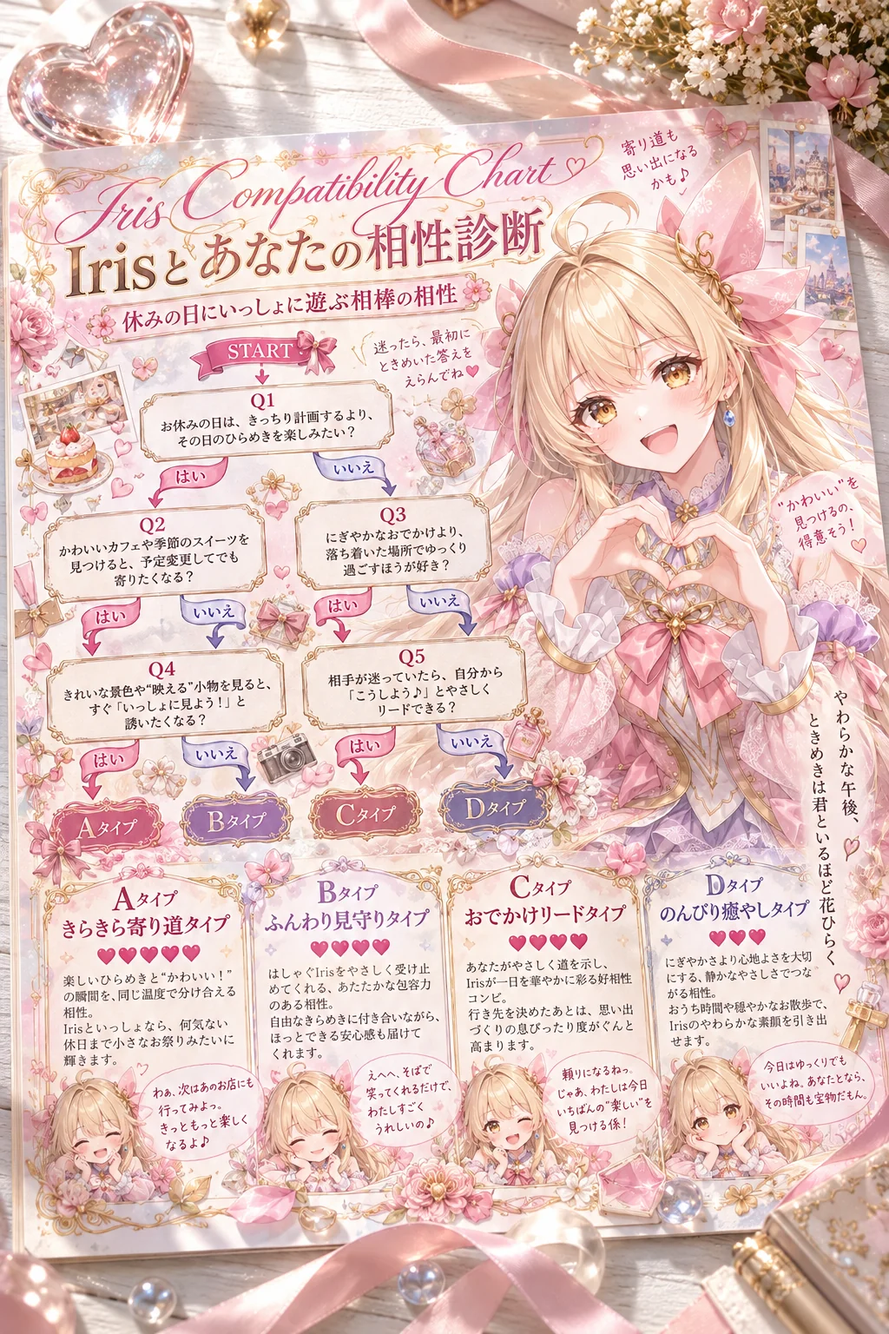
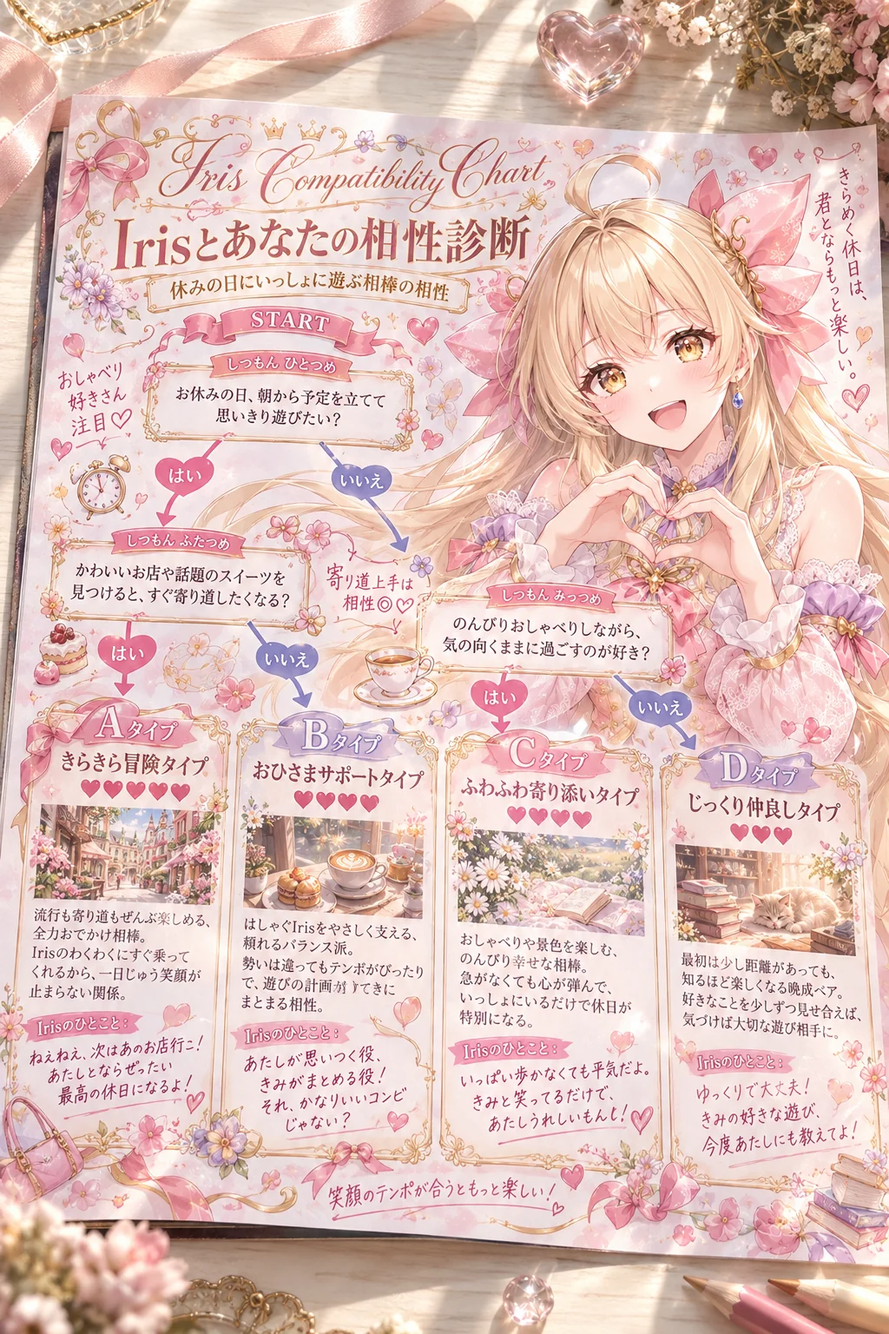
配布 10/14：作例を三姉妹3人に・会話劇を書き直し（相性診断は質問3つ・りんご園）

diff --git a/prompts/2026-10-14-gpt-ap4gzq3m.html b/prompts/2026-10-14-gpt-ap4gzq3m.html
@@ -45,7 +45,7 @@
 @media(max-width:560px){.ps-ba{grid-template-columns:1fr}.ps-ba .arr{transform:rotate(90deg);text-align:center}.ps-vars,.ps-vars tbody,.ps-vars tr,.ps-vars th,.ps-vars td{display:block;width:auto;white-space:normal}.ps-vars tr:first-child{display:none}.ps-vars tr{border-bottom:1px solid var(--ps-line);padding:4px 0}.ps-vars th,.ps-vars td{border:0;padding:6px 12px}}
 .ps{overflow-wrap:anywhere}.ps-vars td,.ps-vars th{overflow-wrap:anywhere}.ps img{max-width:100%}
 </style><!--ps-meta {"date": "2026-10-14", "title": "うちの子とあなたの「相性診断チャート」ができるプロンプト", "kind": "gpt", "nsfw": false, "summary": "キャラの絵と名前を入れるだけで、その子とあなたの「相性診断チャート」に。質問も相性のタイプも、AIがその子に合わせて考えてくれます。", "thumb": "img/2026-10-14-gpt-ap4gzq3m/ex1.webp"}-->
-</head><body class="decor-page decor-bubble"><div class="page-decor" aria-hidden="true"><div class="decor-layer decor-bubble-layer"><i></i><i></i><i></i><i></i><i></i><i></i><i></i><i></i><i></i><i></i><i></i><i></i></div></div><header class="site-header"><div class="container"><a class="brand" href="../index.html"><span class="brand-script">Lupinus</span><span class="brand-sub">AI Bloom Sisters</span></a><button class="menu-toggle" aria-label="menu" onclick="document.getElementById('nav').classList.toggle('open')">≡</button><nav class="nav" id="nav"><a href="../index.html">Home</a><a href="../about.html">About</a><a href="../portfolio.html">Portfolio</a><a href="../gallery.html">Gallery</a><a href="../blog/index.html" class="active">Blog</a><a href="../sns.html">SNS</a><a href="../coming-soon.html">Contact</a></nav></div></header><main class="article"><header class="article-header"><div class="date">2026-10-14<span class="day-chip">プロンプト配布</span></div><h1>うちの子とあなたの「相性診断チャート」ができるプロンプト</h1></header><div class="article-body"><div class="ps"><p><span class="ps-badge">GPT-image-2 用</span><span class="ps-badge">2026-10-14</span></p><p class="ps-lead">ChatGPT（GPT-image-2）に自分のキャラの絵を1枚渡して、この文を貼るだけ。はい／いいえで進むフローチャートの先に、うちの子とあなたの相性のタイプが待っている、雑誌の付録のような診断ページができあがります。チャートの5つの質問も、4つの相性タイプの名前と説明も、キャラからのひとことも、AIがキャラを読み取って考えてくれます。焼くたびに質問が変わるので、何度でも診断できます。名前のほかは空欄でもOK。色・服・背景・ポーズ、診断のテーマを変えたいときは、その欄に書くだけです。</p><nav class="ps-toc" aria-label="目次"><p>📑 目次</p><ol><li><a href="#sec1">作例</a></li><li><a href="#sec2">3人のおしゃべり（相性診断チャート）</a></li><li><a href="#sec3">使い方（3ステップ）</a></li><li><a href="#sec4">プロンプト</a></li><li><a href="#sec5">書くところ</a></li><li><a href="#sec6">（おまけ）元絵を綺麗にしておくと、もっと綺麗に</a></li><li><a href="#sec7">メモ</a></li><li><a href="#sec8">配布ルール</a></li></ol></nav><h2 id="sec1">作例</h2><div class="ps-ex"><figure><img src="img/2026-10-14-gpt-ap4gzq3m/ex1.webp" alt="名前「Iris」・テーマカラー「ラズベリーピンクとシャンパンゴールド」・ポーズ・追加の指示「診断のテーマは「休みの日にいっしょに遊ぶ相棒の相性」」（服・背景は空欄）＝相性のタイプは「きらきら寄り道タイプ」「ふんわり見守りタイプ」「おでかけリードタイプ」「のんびり癒やしタイプ」の4つ" loading="lazy"><figcaption>名前「Iris」・テーマカラー「ラズベリーピンクとシャンパンゴールド」・ポーズ・追加の指示「診断のテーマは「休みの日にいっしょに遊ぶ相棒の相性」」（服・背景は空欄）＝相性のタイプは「きらきら寄り道タイプ」「ふんわり見守りタイプ」「おでかけリードタイプ」「のんびり癒やしタイプ」の4つ</figcaption></figure></div><p style="font-size:.82rem;color:var(--ps-ink)">※作例の画像の転載・保存しての再配布はご遠慮ください。</p><h2 id="sec2">3人のおしゃべり（相性診断チャート）</h2><div class="ps-chat"><img src="img/2026-10-14-gpt-ap4gzq3m/talk_iris_laugh.webp" alt="アイリス" loading="lazy"><div><div class="who">アイリス</div><div class="bub">あたしとの相性診断できたよ！ 休みの日の相棒の相性で、いちばん上は「きらきら寄り道タイプ」だった〜！</div></div></div><div class="ps-chat r"><img src="img/2026-10-14-gpt-ap4gzq3m/talk_lupinus_happy.webp" alt="ルピナス" loading="lazy"><div><div class="who">ルピナス</div><div class="bub">私のチャートは「月花よりそいタイプ」とか、名前がちょっと大人っぽいの。最後のひとこと、ちゃんと私の口調なんだよね</div></div></div><div class="ps-chat r"><img src="img/2026-10-14-gpt-ap4gzq3m/talk_fiona_shy.webp" alt="フィオナ" loading="lazy"><div><div class="who">フィオナ</div><div class="bub">私のは「寄り添いティータイムタイプ」がハート5つでした……。ちょっとうれしいです</div></div></div><div class="ps-chat"><img src="img/2026-10-14-gpt-ap4gzq3m/talk_iris_devious.webp" alt="アイリス" loading="lazy"><div><div class="who">アイリス</div><div class="bub">焼くたびに質問が変わるから、何回でも診断できちゃうの。お姉ちゃんともう1回やろ！</div></div></div><div class="ps-chat r"><img src="img/2026-10-14-gpt-ap4gzq3m/talk_lupinus_wink.webp" alt="ルピナス" loading="lazy"><div><div class="who">ルピナス</div><div class="bub">名前を書くだけで、その子との相性診断になるよ。みんなは何タイプだった？</div></div></div><h2 id="sec3">使い方（3ステップ）</h2><ol class="ps-steps"><li>ChatGPT を開いて、画像を作れるモード（GPT-image-2）にする</li><li>自分のキャラの絵を1枚だけ添付する（自分の絵・使ってよい画像だけ。いつもの絵のままでOK。下の「おまけ」で元絵を作った人は元絵を）</li><li>下のプロンプトをワンタップでコピーして、いちばん上の「▼ ここに書く」の欄（色の付いたところ）にキャラの名前などを書いて送信する（名前のほかは空欄でもOK。服・背景・ポーズを変えたいときは、その欄に書くだけ）</li></ol><h2 id="sec4">プロンプト</h2><div class="ps-note" style="margin-bottom:12px"><b>書くのは「▼ ここに書く」の欄だけ</b><ul><li><mark style="background:var(--ps-soft);color:var(--ps-a);font-weight:700;border-bottom:2px dashed var(--ps-a);padding:0 4px">色の付いたところ</mark>（「：」のうしろ）に書くだけ。【 】は消さずにそのまま残してね</li><li>下の文章に出てくる【キャラの名前】などは書き換えなくてOK（AIが上の欄を読んでくれます）</li><li>任意の欄は空のままでも大丈夫（おまかせになります）</li><li>👗 <b>服・アクセサリー／背景／ポーズを変えたいときは、その欄に書くだけ</b>。欄に書いた内容が下の文章より優先されるように作ってあるので、下の文章は書き換えなくてOK。空欄なら、服とアクセサリーは添付した絵のまま、背景とポーズは下の文章のとおりになります。顔立ち・髪型・髪色・目の色は、いつも添付した絵のままです</li><li>💡 添付した絵と違う服にしたいときは、色と形まで具体的に書くと混ざりにくくなります（例：「白いニット」より「白いケーブル編みのニットと紺のプリーツスカート」）</li><li>🚫 添付する絵は<b>自分のキャラ・自分が権利を持つ画像だけ</b>。版権キャラ・他の人のキャラの画像は固く禁止です（下の「配布ルール」）</li></ul></div><div class="ps-box"><button class="ps-copy" type="button" data-target="ps-prompt">📋 ワンタップでコピー</button><p style="margin:0 0 8px;font-size:.82rem;color:var(--ps-a)">プロンプト</p><pre>添付した画像のキャラクターを読み取って、そのキャラと「あなた」の相性がわかる「相性診断チャート」のページを作ってください。
+</head><body class="decor-page decor-bubble"><div class="page-decor" aria-hidden="true"><div class="decor-layer decor-bubble-layer"><i></i><i></i><i></i><i></i><i></i><i></i><i></i><i></i><i></i><i></i><i></i><i></i></div></div><header class="site-header"><div class="container"><a class="brand" href="../index.html"><span class="brand-script">Lupinus</span><span class="brand-sub">AI Bloom Sisters</span></a><button class="menu-toggle" aria-label="menu" onclick="document.getElementById('nav').classList.toggle('open')">≡</button><nav class="nav" id="nav"><a href="../index.html">Home</a><a href="../about.html">About</a><a href="../portfolio.html">Portfolio</a><a href="../gallery.html">Gallery</a><a href="../blog/index.html" class="active">Blog</a><a href="../sns.html">SNS</a><a href="../coming-soon.html">Contact</a></nav></div></header><main class="article"><header class="article-header"><div class="date">2026-10-14<span class="day-chip">プロンプト配布</span></div><h1>うちの子とあなたの「相性診断チャート」ができるプロンプト</h1></header><div class="article-body"><div class="ps"><p><span class="ps-badge">GPT-image-2 用</span><span class="ps-badge">2026-10-14</span></p><p class="ps-lead">ChatGPT（GPT-image-2）に自分のキャラの絵を1枚渡して、この文を貼るだけ。はい／いいえで進むフローチャートの先に、うちの子とあなたの相性のタイプが待っている、雑誌の付録のような診断ページができあがります。チャートの3つの質問も、4つの相性タイプの名前と説明も、キャラからのひとことも、AIがキャラを読み取って考えてくれます。焼くたびに質問が変わるので、何度でも診断できます。名前のほかは空欄でもOK。色・服・背景・ポーズ、診断のテーマを変えたいときは、その欄に書くだけです。</p><nav class="ps-toc" aria-label="目次"><p>📑 目次</p><ol><li><a href="#sec1">作例</a></li><li><a href="#sec2">3人のおしゃべり（相性診断チャート）</a></li><li><a href="#sec3">使い方（3ステップ）</a></li><li><a href="#sec4">プロンプト</a></li><li><a href="#sec5">書くところ</a></li><li><a href="#sec6">（おまけ）元絵を綺麗にしておくと、もっと綺麗に</a></li><li><a href="#sec7">メモ</a></li><li><a href="#sec8">配布ルール</a></li></ol></nav><h2 id="sec1">作例</h2><div class="ps-ex"><figure><img src="img/2026-10-14-gpt-ap4gzq3m/ex1.webp" alt="名前「Iris」・テーマカラー「ラズベリーピンクとシャンパンゴールド」・ポーズ・追加の指示「診断のテーマは「休みの日にいっしょに遊ぶ相棒の相性」。ひとことの一人称は「あたし」（元気なタメ口）」（服・背景は空欄）＝相性のタイプは「きらきら冒険タイプ」「おひさまサポートタイプ」「ふわふわ寄り添いタイプ」「じっくり仲良しタイプ」の4つ" loading="lazy"><figcaption>名前「Iris」・テーマカラー「ラズベリーピンクとシャンパンゴールド」・ポーズ・追加の指示「診断のテーマは「休みの日にいっしょに遊ぶ相棒の相性」。ひとことの一人称は「あたし」（元気なタメ口）」（服・背景は空欄）＝相性のタイプは「きらきら冒険タイプ」「おひさまサポートタイプ」「ふわふわ寄り添いタイプ」「じっくり仲良しタイプ」の4つ</figcaption></figure><figure><img src="img/2026-10-14-gpt-ap4gzq3m/ex2.webp" alt="名前「ルピナス」だけ（ほかの欄は空欄）＝相性のタイプは「月あかり寄り添いタイプ」「花しおり見守りタイプ」「きらめき憧れタイプ」「春風きっかけタイプ」の4つ" loading="lazy"><figcaption>名前「ルピナス」だけ（ほかの欄は空欄）＝相性のタイプは「月あかり寄り添いタイプ」「花しおり見守りタイプ」「きらめき憧れタイプ」「春風きっかけタイプ」の4つ</figcaption></figure><figure><img src="img/2026-10-14-gpt-ap4gzq3m/ex3.webp" alt="名前「フィオナ」・ポーズ・追加の指示「ひとことの一人称は「私」（やさしい丁寧語）」（ほかの欄は空欄）＝相性のタイプは「ときめき共鳴タイプ」「おだやかお茶会タイプ」「やさしさ発見タイプ」「ゆっくり接近タイプ」の4つ。4つのひとことが全部「私」の口調になりました" loading="lazy"><figcaption>名前「フィオナ」・ポーズ・追加の指示「ひとことの一人称は「私」（やさしい丁寧語）」（ほかの欄は空欄）＝相性のタイプは「ときめき共鳴タイプ」「おだやかお茶会タイプ」「やさしさ発見タイプ」「ゆっくり接近タイプ」の4つ。4つのひとことが全部「私」の口調になりました</figcaption></figure></div><p style="font-size:.82rem;color:var(--ps-ink)">※作例の画像の転載・保存しての再配布はご遠慮ください。</p><h2 id="sec2">3人のおしゃべり（相性診断チャート）</h2><div class="ps-chat"><img src="img/2026-10-14-gpt-ap4gzq3m/talk_fiona_thinking.webp" alt="フィオナ" loading="lazy"><div><div class="who">フィオナ</div><div class="bub">質問です。お姉ちゃんとアイリスちゃん、ハート5つのタイプは何でしたか？</div></div></div><div class="ps-chat r"><img src="img/2026-10-14-gpt-ap4gzq3m/talk_lupinus_happy.webp" alt="ルピナス" loading="lazy"><div><div class="who">ルピナス</div><div class="bub">私から。「月あかり寄り添いタイプ」。言葉にしなくても、気持ちをそっと受け取れる人なんだって</div></div></div><div class="ps-chat r"><img src="img/2026-10-14-gpt-ap4gzq3m/talk_iris_laugh.webp" alt="アイリス" loading="lazy"><div><div class="who">アイリス</div><div class="bub">あたしは「きらきら冒険タイプ」！ 流行も寄り道もぜんぶ楽しめる、全力おでかけ相棒だって！</div></div></div><div class="ps-chat"><img src="img/2026-10-14-gpt-ap4gzq3m/talk_fiona_shy.webp" alt="フィオナ" loading="lazy"><div><div class="who">フィオナ</div><div class="bub">私は「ときめき共鳴タイプ」でした。きれいなものを、いっしょに見つけられる人だそうです</div></div></div><div class="ps-chat r"><img src="img/2026-10-14-gpt-ap4gzq3m/talk_iris_devious.webp" alt="アイリス" loading="lazy"><div><div class="who">アイリス</div><div class="bub">ねえ、三人の診断を合体させたら、最強の相棒が見えてくるんじゃない？</div></div></div><div class="ps-chat r"><img src="img/2026-10-14-gpt-ap4gzq3m/talk_lupinus_exasperated.webp" alt="ルピナス" loading="lazy"><div><div class="who">ルピナス</div><div class="bub">合体って……冒険して、寄り添って、ときめく人？ 忙しすぎるでしょ、その人</div></div></div><div class="ps-chat"><img src="img/2026-10-14-gpt-ap4gzq3m/talk_fiona_thinking.webp" alt="フィオナ" loading="lazy"><div><div class="who">フィオナ</div><div class="bub">しかも私の最初の質問、「きれいな小物やレースを見るとときめく？」なんです。お姉ちゃんは？</div></div></div><div class="ps-chat r"><img src="img/2026-10-14-gpt-ap4gzq3m/talk_lupinus_smug.webp" alt="ルピナス" loading="lazy"><div><div class="who">ルピナス</div><div class="bub">私のは「にぎやかさより、静かな時間にほっとする？」。……うん、当たってる</div></div></div><div class="ps-chat r"><img src="img/2026-10-14-gpt-ap4gzq3m/talk_iris_surprised.webp" alt="アイリス" loading="lazy"><div><div class="who">アイリス</div><div class="bub">あたしのは「朝から予定を立てて思いきり遊びたい？」だよ！ 性格まるわかりじゃん！</div></div></div><div class="ps-chat"><img src="img/2026-10-14-gpt-ap4gzq3m/talk_fiona_happy.webp" alt="フィオナ" loading="lazy"><div><div class="who">フィオナ</div><div class="bub">質問も、AIがキャラを見て毎回考えてくれるんですね。焼くたびに変わるので、何度でも診断できます</div></div></div><div class="ps-chat r"><img src="img/2026-10-14-gpt-ap4gzq3m/talk_lupinus_thinking.webp" alt="ルピナス" loading="lazy"><div><div class="who">ルピナス</div><div class="bub">私は名前のほかは空欄。フィオナは欄に一人称を書いたんだっけ？</div></div></div><div class="ps-chat"><img src="img/2026-10-14-gpt-ap4gzq3m/talk_fiona_wink.webp" alt="フィオナ" loading="lazy"><div><div class="who">フィオナ</div><div class="bub">はい。「ひとことの一人称は私」と書いたら、4つのひとことが全部、私の口調になりました</div></div></div><div class="ps-chat r"><img src="img/2026-10-14-gpt-ap4gzq3m/talk_iris_smug.webp" alt="アイリス" loading="lazy"><div><div class="who">アイリス</div><div class="bub">あたしはテーマを「休みの日にいっしょに遊ぶ相棒の相性」にしたよ！ 欄に一行足すだけ！</div></div></div><div class="ps-chat r"><img src="img/2026-10-14-gpt-ap4gzq3m/talk_lupinus_happy.webp" alt="ルピナス" loading="lazy"><div><div class="who">ルピナス</div><div class="bub">で、アイリスと私の相性って、何タイプなんだろうね</div></div></div><div class="ps-chat r"><img src="img/2026-10-14-gpt-ap4gzq3m/talk_iris_happy.webp" alt="アイリス" loading="lazy"><div><div class="who">アイリス</div><div class="bub">お姉ちゃんは絶対Bの「おひさまサポートタイプ」！ はしゃぐあたしを、まとめてくれる役！</div></div></div><div class="ps-chat r"><img src="img/2026-10-14-gpt-ap4gzq3m/talk_lupinus_shy.webp" alt="ルピナス" loading="lazy"><div><div class="who">ルピナス</div><div class="bub">……まとめ役なのは否定しないけど、そう言われると、ちょっと照れるじゃん</div></div></div><h2 id="sec3">使い方（3ステップ）</h2><ol class="ps-steps"><li>ChatGPT を開いて、画像を作れるモード（GPT-image-2）にする</li><li>自分のキャラの絵を1枚だけ添付する（自分の絵・使ってよい画像だけ。いつもの絵のままでOK。下の「おまけ」で元絵を作った人は元絵を）</li><li>下のプロンプトをワンタップでコピーして、いちばん上の「▼ ここに書く」の欄（色の付いたところ）にキャラの名前などを書いて送信する（名前のほかは空欄でもOK。服・背景・ポーズを変えたいときは、その欄に書くだけ）</li></ol><h2 id="sec4">プロンプト</h2><div class="ps-note" style="margin-bottom:12px"><b>書くのは「▼ ここに書く」の欄だけ</b><ul><li><mark style="background:var(--ps-soft);color:var(--ps-a);font-weight:700;border-bottom:2px dashed var(--ps-a);padding:0 4px">色の付いたところ</mark>（「：」のうしろ）に書くだけ。【 】は消さずにそのまま残してね</li><li>下の文章に出てくる【キャラの名前】などは書き換えなくてOK（AIが上の欄を読んでくれます）</li><li>任意の欄は空のままでも大丈夫（おまかせになります）</li><li>👗 <b>服・アクセサリー／背景／ポーズを変えたいときは、その欄に書くだけ</b>。欄に書いた内容が下の文章より優先されるように作ってあるので、下の文章は書き換えなくてOK。空欄なら、服とアクセサリーは添付した絵のまま、背景とポーズは下の文章のとおりになります。顔立ち・髪型・髪色・目の色は、いつも添付した絵のままです</li><li>💡 添付した絵と違う服にしたいときは、色と形まで具体的に書くと混ざりにくくなります（例：「白いニット」より「白いケーブル編みのニットと紺のプリーツスカート」）</li><li>🚫 添付する絵は<b>自分のキャラ・自分が権利を持つ画像だけ</b>。版権キャラ・他の人のキャラの画像は固く禁止です（下の「配布ルール」）</li></ul></div><div class="ps-box"><button class="ps-copy" type="button" data-target="ps-prompt">📋 ワンタップでコピー</button><p style="margin:0 0 8px;font-size:.82rem;color:var(--ps-a)">プロンプト</p><pre>添付した画像のキャラクターを読み取って、そのキャラと「あなた」の相性がわかる「相性診断チャート」のページを作ってください。
 チャートの質問、答えの分かれ道、相性のタイプの名前と説明、キャラからのひとことは、キャラの見た目や性格からあなたが考えて書いてください。
 
 ▼ ここに書く（「：」のうしろに書くだけ。【 】は消さずにそのまま。名前だけは必ず書く。ほかの空の欄はおまかせ）
@@ -66,7 +66,7 @@
 ・雑誌の付録のような、厚手の光沢紙に刷った「相性診断チャート」1枚を、机の上で撮った写真
 ・いちばん上に、筆記体の欧文のロゴで【キャラの名前】のローマ字と「Compatibility Chart」、その下に細い明朝体の大きな文字で「【キャラの名前】とあなたの相性診断」
 ・ページの右側に、キャラの繊細なアニメイラスト（腰から上で、こちらへ身を乗り出し、両手の指で小さなハートを作って笑う）。顔立ち・髪型・髪色・目の色・髪飾りは添付画像のキャラだと一目でわかるように
-・ページの左側に、「START」から始まる、はい／いいえで進むフローチャート。質問は5つで、キャラの好きなもの・苦手なもの・口ぐせから考えた、思わず答えたくなる質問にする。分かれ道の矢印は、手描き風のリボンの線
+・ページの左側に、「START」から始まる、はい／いいえで進むフローチャート。質問は3つで、キャラの好きなもの・苦手なもの・口ぐせから考えた、思わず答えたくなる質問にする。チャートの道筋はこの形にする＝Q1：はい→Q2／いいえ→Q3、Q2：はい→タイプA／いいえ→タイプB、Q3：はい→タイプC／いいえ→タイプD（どの質問も「はい」と「いいえ」の矢印は別の行き先へ進み、同じ質問に合流させない）。分かれ道の矢印は、手描き風のリボンの線
 ・チャートの行き先は4つの相性タイプ。それぞれに「〇〇タイプ」の形のキャラらしい名前と、2行の説明と、キャラの口調のひとこと。相性の高さはハートの数で表し、数字やパーセントは使わない
 ・余白に、手書き風の注釈と矢印、キャラの好きなものの小さなアイコン、縦書きの詩的なひとこと
 ・【テーマカラー】が書いてあれば、見出しと枠、ハートとリボンの線の色にする。空欄ならキャラの髪と目の色から選ぶ
@@ -100,7 +100,7 @@
 ・雑誌の付録のような、厚手の光沢紙に刷った「相性診断チャート」1枚を、机の上で撮った写真
 ・いちばん上に、筆記体の欧文のロゴで【キャラの名前】のローマ字と「Compatibility Chart」、その下に細い明朝体の大きな文字で「【キャラの名前】とあなたの相性診断」
 ・ページの右側に、キャラの繊細なアニメイラスト（腰から上で、こちらへ身を乗り出し、両手の指で小さなハートを作って笑う）。顔立ち・髪型・髪色・目の色・髪飾りは添付画像のキャラだと一目でわかるように
-・ページの左側に、「START」から始まる、はい／いいえで進むフローチャート。質問は5つで、キャラの好きなもの・苦手なもの・口ぐせから考えた、思わず答えたくなる質問にする。分かれ道の矢印は、手描き風のリボンの線
+・ページの左側に、「START」から始まる、はい／いいえで進むフローチャート。質問は3つで、キャラの好きなもの・苦手なもの・口ぐせから考えた、思わず答えたくなる質問にする。チャートの道筋はこの形にする＝Q1：はい→Q2／いいえ→Q3、Q2：はい→タイプA／いいえ→タイプB、Q3：はい→タイプC／いいえ→タイプD（どの質問も「はい」と「いいえ」の矢印は別の行き先へ進み、同じ質問に合流させない）。分かれ道の矢印は、手描き風のリボンの線
 ・チャートの行き先は4つの相性タイプ。それぞれに「〇〇タイプ」の形のキャラらしい名前と、2行の説明と、キャラの口調のひとこと。相性の高さはハートの数で表し、数字やパーセントは使わない
 ・余白に、手書き風の注釈と矢印、キャラの好きなものの小さなアイコン、縦書きの詩的なひとこと
 ・【テーマカラー】が書いてあれば、見出しと枠、ハートとリボンの線の色にする。空欄ならキャラの髪と目の色から選ぶ
@@ -149,7 +149,7 @@
 ・服のレースやフリル、刺繍、アクセサリーの宝石と金具まで細かく描く
 ・やわらかな光で輪郭をきれいに。上品で透明感のある配色、ハイエンドなアニメイラストの最高品質、超高精細
 ・縦長 2:3
-</textarea></div><div class="ps-note" style="margin-top:12px"><b>うまくいかない時</b><ul><li>元絵は、診断ページの右側のイラストに入れやすい、こちらへ身を乗り出して指で小さなハートを作る腰から上の形にしてあります。</li></ul></div><h2 id="sec7">メモ</h2><ul class="ps-rules"><li>質問と相性のタイプは、毎回AIがキャラに合わせて考えます（試し焼きでは、フィオナが「寄り添いティータイムタイプ」「ときめきレッスンタイプ」、ルピナスが「月花よりそいタイプ」「星しずく見守りタイプ」など）。</li><li>何も書かないと、恋の相性か友だちの相性か、AIがキャラに合わせて選びます。テーマを決めたいときは【ポーズ・追加の指示】に「診断のテーマは〇〇」と書いてください。</li><li>相性の高さはハートの数で表します。パーセントや年号・日付のような数字は入らないようにしてあります。</li><li>服を変えたら顔や髪まで変わってしまったときは、同じチャットで「顔立ち・髪型・髪色・目の色は添付画像のままで、服とアクセサリーだけ【服・アクセサリー】にして描き直して」と送ってください。</li><li>文字がつぶれたり誤字があるときは、同じチャットで「文字の崩れと誤字を直して、もう一度」と送ると直りやすいです。</li><li>「■ 上の欄の使い方」と「■ 仕上がりの質」の段落は消さずにそのまま送ってください。欄に書いた内容が優先されるのと、光沢紙のつやや手書きのインク、ガラスのハートの透明感は、ここで決まっています。</li></ul><h2 id="sec8">配布ルール</h2><ul class="ps-rules"><li>⭕ プロンプトの改変は自由です。</li><li>⭕ 生成した画像は SNS に投稿して大丈夫です。</li><li>❌ プロンプト文そのものの転載・再配布・販売はしないでください。</li><li>❌ 自作のプロンプトだと名乗ることはやめてください。</li><li>❌ このページの作例画像の無断転載はしないでください。</li><li class="ps-rights">🚫 <b>アニメ・漫画・ゲームなどの版権キャラクター（著作権・商標のあるキャラ）、他の人のキャラクターやイラスト、実在の人物の写真を添付画像にして使うことは固く禁止します。</b>版権キャラの名前や、版権キャラの LoRA を入れて使うことも禁止です。</li><li>✅ 添付してよいのは、<b>自分で作ったキャラクター・自分が権利を持つ画像</b>（または権利者から使ってよいと言われた画像）だけです。</li><li>⚠ 生成した画像の使い方（投稿・公開など）は、使った人の責任でお願いします。権利の問題が起きても、配布者は責任を負えません。</li><li>💌 使ったら <b>#ルピナスプロンプト</b> を付けて見せてくれたら、とても嬉しいです（任意です）。</li></ul><p class="ps-bn-ask" style="margin:22px 0 0;font-size:.92rem">📚 これまでの配布プロンプト（バックナンバー）が見たい方は、直接ルピナスまでお気軽にお問い合わせください。</p></div></div><p id="ps-views" hidden style="text-align:center;font-size:12px;opacity:.55;margin:22px 0 6px"></p></main><footer class="site-footer"><div class="container"><div class="brand-script">Lupinus Rossetti</div><p class="tagline">AI Bloom Sisters &mdash; flower language: imagination</p><div class="sns-row"><a class="sns-link" href="https://x.com/irisfionaAIBS" target="_blank" rel="noopener"><span class="dot"></span>X (Twitter)</a><a class="sns-link" href="https://www.youtube.com/@AIBloomSisters" target="_blank" rel="noopener"><span class="dot"></span>YouTube</a><a class="sns-link" href="https://note.com/rupi_airupi" target="_blank" rel="noopener"><span class="dot"></span>note</a><a class="sns-link" href="https://lupinus-rossetti.fanbox.cc/" target="_blank" rel="noopener"><span class="dot"></span>FANBOX</a></div><p class="copy">&copy; 2026 AI Bloom Sisters. All rights reserved.</p><p style="font-size:.78em;color:var(--ink-faint);margin-top:8px"><a href="../privacy.html" style="color:var(--ink-faint)">プライバシーポリシー</a>　<a href="../stream-info.html" style="color:var(--ink-faint)">配信のご案内</a></p></div></footer><script>(function(){if(window.matchMedia&&window.matchMedia('(prefers-reduced-motion: reduce)').matches)return;var els=document.querySelectorAll('.reveal');if(!els.length||!('IntersectionObserver'in window))return;var io=new IntersectionObserver(function(es){es.forEach(function(e){if(e.isIntersecting){e.target.classList.add('is-visible');io.unobserve(e.target);}});},{rootMargin:'0px 0px -10% 0px'});els.forEach(function(el){io.observe(el);});})();</script><script>window.goatcounter={path:function(p){return location.host+p}};</script>
+</textarea></div><div class="ps-note" style="margin-top:12px"><b>うまくいかない時</b><ul><li>元絵は、診断ページの右側のイラストに入れやすい、こちらへ身を乗り出して指で小さなハートを作る腰から上の形にしてあります。</li></ul></div><h2 id="sec7">メモ</h2><ul class="ps-rules"><li>質問と相性のタイプは、毎回AIがキャラに合わせて考えます（上の3枚でも、最初の質問が「お休みの日、朝から予定を立てて思いきり遊びたい？」「にぎやかさより、静かな時間にほっとする？」「きれいな小物やレースを見ると、つい心がときめく？」と分かれました）。</li><li>チャートは3つの質問で、Q1 の答えで Q2 か Q3 へ進み、そこから4つのタイプへ分かれます。</li><li>絵の中のひとことの口調は、AIが絵から想像します。一人称や口癖を決めたいときは【ポーズ・追加の指示】に「ひとことの一人称は〇〇」のように書いてください。</li><li>何も書かないと、恋の相性か友だちの相性か、AIがキャラに合わせて選びます。テーマを決めたいときは【ポーズ・追加の指示】に「診断のテーマは〇〇」と書いてください。</li><li>相性の高さはハートの数で表します。パーセントや年号・日付のような数字は入らないようにしてあります。</li><li>服を変えたら顔や髪まで変わってしまったときは、同じチャットで「顔立ち・髪型・髪色・目の色は添付画像のままで、服とアクセサリーだけ【服・アクセサリー】にして描き直して」と送ってください。</li><li>文字がつぶれたり誤字があるときは、同じチャットで「文字の崩れと誤字を直して、もう一度」と送ると直りやすいです。</li><li>「■ 上の欄の使い方」と「■ 仕上がりの質」の段落は消さずにそのまま送ってください。欄に書いた内容が優先されるのと、光沢紙のつやや手書きのインク、ガラスのハートの透明感は、ここで決まっています。</li></ul><h2 id="sec8">配布ルール</h2><ul class="ps-rules"><li>⭕ プロンプトの改変は自由です。</li><li>⭕ 生成した画像は SNS に投稿して大丈夫です。</li><li>❌ プロンプト文そのものの転載・再配布・販売はしないでください。</li><li>❌ 自作のプロンプトだと名乗ることはやめてください。</li><li>❌ このページの作例画像の無断転載はしないでください。</li><li class="ps-rights">🚫 <b>アニメ・漫画・ゲームなどの版権キャラクター（著作権・商標のあるキャラ）、他の人のキャラクターやイラスト、実在の人物の写真を添付画像にして使うことは固く禁止します。</b>版権キャラの名前や、版権キャラの LoRA を入れて使うことも禁止です。</li><li>✅ 添付してよいのは、<b>自分で作ったキャラクター・自分が権利を持つ画像</b>（または権利者から使ってよいと言われた画像）だけです。</li><li>⚠ 生成した画像の使い方（投稿・公開など）は、使った人の責任でお願いします。権利の問題が起きても、配布者は責任を負えません。</li><li>💌 使ったら <b>#ルピナスプロンプト</b> を付けて見せてくれたら、とても嬉しいです（任意です）。</li></ul><p class="ps-bn-ask" style="margin:22px 0 0;font-size:.92rem">📚 これまでの配布プロンプト（バックナンバー）が見たい方は、直接ルピナスまでお気軽にお問い合わせください。</p></div></div><p id="ps-views" hidden style="text-align:center;font-size:12px;opacity:.55;margin:22px 0 6px"></p></main><footer class="site-footer"><div class="container"><div class="brand-script">Lupinus Rossetti</div><p class="tagline">AI Bloom Sisters &mdash; flower language: imagination</p><div class="sns-row"><a class="sns-link" href="https://x.com/irisfionaAIBS" target="_blank" rel="noopener"><span class="dot"></span>X (Twitter)</a><a class="sns-link" href="https://www.youtube.com/@AIBloomSisters" target="_blank" rel="noopener"><span class="dot"></span>YouTube</a><a class="sns-link" href="https://note.com/rupi_airupi" target="_blank" rel="noopener"><span class="dot"></span>note</a><a class="sns-link" href="https://lupinus-rossetti.fanbox.cc/" target="_blank" rel="noopener"><span class="dot"></span>FANBOX</a></div><p class="copy">&copy; 2026 AI Bloom Sisters. All rights reserved.</p><p style="font-size:.78em;color:var(--ink-faint);margin-top:8px"><a href="../privacy.html" style="color:var(--ink-faint)">プライバシーポリシー</a>　<a href="../stream-info.html" style="color:var(--ink-faint)">配信のご案内</a></p></div></footer><script>(function(){if(window.matchMedia&&window.matchMedia('(prefers-reduced-motion: reduce)').matches)return;var els=document.querySelectorAll('.reveal');if(!els.length||!('IntersectionObserver'in window))return;var io=new IntersectionObserver(function(es){es.forEach(function(e){if(e.isIntersecting){e.target.classList.add('is-visible');io.unobserve(e.target);}});},{rootMargin:'0px 0px -10% 0px'});els.forEach(function(el){io.observe(el);});})();</script><script>window.goatcounter={path:function(p){return location.host+p}};</script>
 <script data-goatcounter="https://aibs-prompts.goatcounter.com/count" async src="//gc.zgo.at/count.js"></script><script>window.psCopyBind=function(root){root.querySelectorAll('.ps-copy').forEach(function(b){
 b.addEventListener('click',function(){var t=document.getElementById(b.getAttribute('data-target'));
 if(window.goatcounter&&goatcounter.count)goatcounter.count({path:'copy-'+location.host+location.pathname+'#'+b.getAttribute('data-target'),title:'プロンプトをコピー',event:true});

diff --git a/prompts/2026-10-14-comfy-28njia8x.html b/prompts/2026-10-14-comfy-28njia8x.html
@@ -45,7 +45,7 @@
 @media(max-width:560px){.ps-ba{grid-template-columns:1fr}.ps-ba .arr{transform:rotate(90deg);text-align:center}.ps-vars,.ps-vars tbody,.ps-vars tr,.ps-vars th,.ps-vars td{display:block;width:auto;white-space:normal}.ps-vars tr:first-child{display:none}.ps-vars tr{border-bottom:1px solid var(--ps-line);padding:4px 0}.ps-vars th,.ps-vars td{border:0;padding:6px 12px}}
 .ps{overflow-wrap:anywhere}.ps-vars td,.ps-vars th{overflow-wrap:anywhere}.ps img{max-width:100%}
 </style><!--ps-meta {"date": "2026-10-14", "title": "秋晴れのりんご園で、はしごの上からもぎたてのりんごを（ComfyUI シーンのプロンプト）", "kind": "comfy", "nsfw": false, "summary": "秋晴れのりんご園で、はしごの上からもぎたてのりんごを手に笑う一枚。LoRA なしでも貼るだけで綺麗に出ます。", "thumb": "img/2026-10-14-comfy-28njia8x/ex1.webp"}-->
-</head><body class="decor-page decor-bubble"><div class="page-decor" aria-hidden="true"><div class="decor-layer decor-bubble-layer"><i></i><i></i><i></i><i></i><i></i><i></i><i></i><i></i><i></i><i></i><i></i><i></i></div></div><header class="site-header"><div class="container"><a class="brand" href="../index.html"><span class="brand-script">Lupinus</span><span class="brand-sub">AI Bloom Sisters</span></a><button class="menu-toggle" aria-label="menu" onclick="document.getElementById('nav').classList.toggle('open')">≡</button><nav class="nav" id="nav"><a href="../index.html">Home</a><a href="../about.html">About</a><a href="../portfolio.html">Portfolio</a><a href="../gallery.html">Gallery</a><a href="../blog/index.html" class="active">Blog</a><a href="../sns.html">SNS</a><a href="../coming-soon.html">Contact</a></nav></div></header><main class="article"><header class="article-header"><div class="date">2026-10-14<span class="day-chip">プロンプト配布</span></div><h1>秋晴れのりんご園で、はしごの上からもぎたてのりんごを（ComfyUI シーンのプロンプト）</h1></header><div class="article-body"><div class="ps"><p><span class="ps-badge">ComfyUI 用</span><span class="ps-badge">2026-10-14</span></p><p class="ps-lead">ComfyUI（Anima）に貼るだけで、秋晴れのりんご園の一枚に。木に立てかけたはしごの上で、もいだばかりの真っ赤なりんごを手に笑う女の子（ほっぺに寄せたり、こちらへ差し出したり＝焼くたびに変わります）。籐のかご、りんご柄のフリルのエプロン、葉のすきまからこぼれる木もれ日。LoRA が無くても、1行目の髪の色と髪型を書き換えるだけで、あなたの子に近づけられます。</p><nav class="ps-toc" aria-label="目次"><p>📑 目次</p><ol><li><a href="#sec1">作例</a></li><li><a href="#sec2">3人のおしゃべり（りんご園）</a></li><li><a href="#sec3">使い方（3ステップ）</a></li><li><a href="#sec4">プロンプト</a></li><li><a href="#sec5">必要なもの（ComfyUI）</a></li><li><a href="#sec6">メモ</a></li><li><a href="#sec7">配布ルール</a></li></ol></nav><h2 id="sec1">作例</h2><div class="ps-ex"><figure><img src="img/2026-10-14-comfy-28njia8x/ex1.webp" alt="ルピナスの LoRA で焼いた作例（B のプロンプト）。はしごに足をかけ、もいだばかりの真っ赤なりんごをほっぺに寄せて笑う。足もとの籐のかごもりんごでいっぱい" loading="lazy"><figcaption>ルピナスの LoRA で焼いた作例（B のプロンプト）。はしごに足をかけ、もいだばかりの真っ赤なりんごをほっぺに寄せて笑う。足もとの籐のかごもりんごでいっぱい</figcaption></figure></div><p style="font-size:.82rem;color:var(--ps-ink)">※作例の画像の転載・保存しての再配布はご遠慮ください。</p><h2 id="sec2">3人のおしゃべり（りんご園）</h2><div class="ps-chat"><img src="img/2026-10-14-comfy-28njia8x/talk_lupinus_happy.webp" alt="ルピナス" loading="lazy"><div><div class="who">ルピナス</div><div class="bub">もいだばかりのりんご、ほっぺに当てるとひんやりして気持ちいいの。木もれ日もぽかぽかだよ</div></div></div><div class="ps-chat r"><img src="img/2026-10-14-comfy-28njia8x/talk_iris_laugh.webp" alt="アイリス" loading="lazy"><div><div class="who">アイリス</div><div class="bub">ちょ、下から見上げる構図かわいすぎない？ 足もとのかごもりんごでいっぱいじゃん！</div></div></div><div class="ps-chat r"><img src="img/2026-10-14-comfy-28njia8x/talk_fiona_shy.webp" alt="フィオナ" loading="lazy"><div><div class="who">フィオナ</div><div class="bub">エプロンにも小さなりんごの柄が……。秋晴れの空の青と、りんごの赤がとてもきれいです</div></div></div><div class="ps-chat r"><img src="img/2026-10-14-comfy-28njia8x/talk_iris_devious.webp" alt="アイリス" loading="lazy"><div><div class="who">アイリス</div><div class="bub">1行目の髪の色を変えるだけで、みんなの子もりんご狩りに来られるよ〜</div></div></div><div class="ps-chat"><img src="img/2026-10-14-comfy-28njia8x/talk_lupinus_wink.webp" alt="ルピナス" loading="lazy"><div><div class="who">ルピナス</div><div class="bub">LoRA が無くても A をそのまま貼れば大丈夫。りんごの季節のうちに焼いてみてね</div></div></div><h2 id="sec3">使い方（3ステップ）</h2><ol class="ps-steps"><li>ComfyUI で Anima のモデルを読み、基本の画像生成（テキストから画像）の画面にする</li><li>下の A（LoRA なし）か B（LoRA あり）のポジティブと、ネガティブをワンタップでコピーして貼る</li><li>「推奨値」の大きさ・steps・CFG にして生成する（できれば 1.5 倍の hires fix も）</li></ol><h2 id="sec4">プロンプト</h2><div class="ps-note" style="margin-bottom:12px"><b>変えるのは1行目の色の付いたところだけ</b>（先頭の <code>1girl, solo</code> などはそのまま）<ul><li>使うプロンプトは2通り＝<b>A. LoRA を持っていない人</b>／<b>B. 自分のキャラの LoRA を持っている人</b>。どちらも丸ごとコピーして貼るだけ</li><li>A は<b>そのまま</b>でも綺麗な女の子で出ます。自分のキャラにするなら1行目の髪の色・髪型・目の色を書き換えるだけ</li><li>B は1行目の <code>your_lora_trigger</code> を自分の LoRA のトリガー語に置きかえるだけ（LoRA の強さは下の表）</li><li>2行目から下（シーン）と、ネガティブプロンプトは変えずにそのまま</li><li>🚫 版権キャラの名前・版権キャラの LoRA を入れて使うのは固く禁止です（下の「配布ルール」）</li></ul></div><h3 style="margin:14px 0 8px">A. LoRA を持っていない人（そのままでもOK）</h3><div class="ps-box"><button class="ps-copy" type="button" data-target="ps-prompt">📋 ワンタップでコピー</button><p style="margin:0 0 8px;font-size:.82rem;color:var(--ps-a)">ポジティブプロンプト</p><pre>1girl, solo, <mark class="ps-in" data-key="キャラの行">long hair, wavy hair, silver hair, blue eyes</mark>
+</head><body class="decor-page decor-bubble"><div class="page-decor" aria-hidden="true"><div class="decor-layer decor-bubble-layer"><i></i><i></i><i></i><i></i><i></i><i></i><i></i><i></i><i></i><i></i><i></i><i></i></div></div><header class="site-header"><div class="container"><a class="brand" href="../index.html"><span class="brand-script">Lupinus</span><span class="brand-sub">AI Bloom Sisters</span></a><button class="menu-toggle" aria-label="menu" onclick="document.getElementById('nav').classList.toggle('open')">≡</button><nav class="nav" id="nav"><a href="../index.html">Home</a><a href="../about.html">About</a><a href="../portfolio.html">Portfolio</a><a href="../gallery.html">Gallery</a><a href="../blog/index.html" class="active">Blog</a><a href="../sns.html">SNS</a><a href="../coming-soon.html">Contact</a></nav></div></header><main class="article"><header class="article-header"><div class="date">2026-10-14<span class="day-chip">プロンプト配布</span></div><h1>秋晴れのりんご園で、はしごの上からもぎたてのりんごを（ComfyUI シーンのプロンプト）</h1></header><div class="article-body"><div class="ps"><p><span class="ps-badge">ComfyUI 用</span><span class="ps-badge">2026-10-14</span></p><p class="ps-lead">ComfyUI（Anima）に貼るだけで、秋晴れのりんご園の一枚に。木に立てかけたはしごの上で、もいだばかりの真っ赤なりんごを手に笑う女の子（ほっぺに寄せたり、こちらへ差し出したり＝焼くたびに変わります）。籐のかご、りんご柄のフリルのエプロン、葉のすきまからこぼれる木もれ日。LoRA が無くても、1行目の髪の色と髪型を書き換えるだけで、あなたの子に近づけられます。</p><nav class="ps-toc" aria-label="目次"><p>📑 目次</p><ol><li><a href="#sec1">作例</a></li><li><a href="#sec2">3人のおしゃべり（りんご園の特殊技能）</a></li><li><a href="#sec3">使い方（3ステップ）</a></li><li><a href="#sec4">プロンプト</a></li><li><a href="#sec5">必要なもの（ComfyUI）</a></li><li><a href="#sec6">メモ</a></li><li><a href="#sec7">配布ルール</a></li></ol></nav><h2 id="sec1">作例</h2><div class="ps-ex"><figure><img src="img/2026-10-14-comfy-28njia8x/ex1.webp" alt="ルピナスの LoRA で焼いた作例（B のプロンプト）。はしごに足をかけ、もいだばかりの真っ赤なりんごをほっぺに寄せて笑う。足もとの籐のかごもりんごでいっぱい" loading="lazy"><figcaption>ルピナスの LoRA で焼いた作例（B のプロンプト）。はしごに足をかけ、もいだばかりの真っ赤なりんごをほっぺに寄せて笑う。足もとの籐のかごもりんごでいっぱい</figcaption></figure><figure><img src="img/2026-10-14-comfy-28njia8x/ex2.webp" alt="同じ B のプロンプトをアイリスの LoRA で（アイリスはいつものピンクの髪飾りが決まりなので、シーンの hair ribbon と blue ribbon だけ外した）。りんごを片手に、もう片方の手をこちらへのばす" loading="lazy"><figcaption>同じ B のプロンプトをアイリスの LoRA で（アイリスはいつものピンクの髪飾りが決まりなので、シーンの hair ribbon と blue ribbon だけ外した）。りんごを片手に、もう片方の手をこちらへのばす</figcaption></figure><figure><img src="img/2026-10-14-comfy-28njia8x/ex3.webp" alt="同じ B のプロンプトをフィオナの LoRA で。もいだりんごを見せて、はしごの柵に手をかけて笑う。右にはりんごでいっぱいのかご" loading="lazy"><figcaption>同じ B のプロンプトをフィオナの LoRA で。もいだりんごを見せて、はしごの柵に手をかけて笑う。右にはりんごでいっぱいのかご</figcaption></figure></div><p style="font-size:.82rem;color:var(--ps-ink)">※作例の画像の転載・保存しての再配布はご遠慮ください。</p><h2 id="sec2">3人のおしゃべり（りんご園の特殊技能）</h2><div class="ps-chat"><img src="img/2026-10-14-comfy-28njia8x/talk_iris_laugh.webp" alt="アイリス" loading="lazy"><div><div class="who">アイリス</div><div class="bub">秘技・りんご千本落とし！ 木をゆらしたら、かごに全部入る……はず！</div></div></div><div class="ps-chat r"><img src="img/2026-10-14-comfy-28njia8x/talk_fiona_surprised.webp" alt="フィオナ" loading="lazy"><div><div class="who">フィオナ</div><div class="bub">アイリスちゃん、お姉ちゃんがはしごの上です！ りんごが三つ、頭の上に……特殊技能・時間ゆっくり！</div></div></div><div class="ps-chat r"><img src="img/2026-10-14-comfy-28njia8x/talk_lupinus_exasperated.webp" alt="ルピナス" loading="lazy"><div><div class="who">ルピナス</div><div class="bub">待って待って、揺らさないで！ ……ふう、こっちも特殊技能・りんご全部キャッチ。かご、満杯だね</div></div></div><div class="ps-chat"><img src="img/2026-10-14-comfy-28njia8x/talk_iris_happy.webp" alt="アイリス" loading="lazy"><div><div class="who">アイリス</div><div class="bub">さすがお姉ちゃん！ ほっぺ、ひんやりした？ もいだばかりのりんごって冷たいよね！</div></div></div><div class="ps-chat r"><img src="img/2026-10-14-comfy-28njia8x/talk_lupinus_happy.webp" alt="ルピナス" loading="lazy"><div><div class="who">ルピナス</div><div class="bub">うん。木もれ日はぽかぽかなのに、りんごだけひんやりして気持ちいいの</div></div></div><div class="ps-chat r"><img src="img/2026-10-14-comfy-28njia8x/talk_fiona_thinking.webp" alt="フィオナ" loading="lazy"><div><div class="who">フィオナ</div><div class="bub">三人とも同じ文で焼いたのに、ポーズがちがうんです。お姉ちゃんはほっぺ、私ははしごに手をかけて</div></div></div><div class="ps-chat"><img src="img/2026-10-14-comfy-28njia8x/talk_iris_devious.webp" alt="アイリス" loading="lazy"><div><div class="who">アイリス</div><div class="bub">あたしは、画面のこっちに手をのばしてる！ はい、りんごどうぞ〜って</div></div></div><div class="ps-chat r"><img src="img/2026-10-14-comfy-28njia8x/talk_lupinus_thinking.webp" alt="ルピナス" loading="lazy"><div><div class="who">ルピナス</div><div class="bub">アイリスのだけ、髪のリボンの語を外して焼いたんだよね。いつものピンクの髪飾りが決まりだから</div></div></div><div class="ps-chat r"><img src="img/2026-10-14-comfy-28njia8x/talk_fiona_happy.webp" alt="フィオナ" loading="lazy"><div><div class="who">フィオナ</div><div class="bub">LoRA がない方は A、自分の子の LoRA がある方は B です。トリガー語を一か所入れかえれば焼けます</div></div></div><div class="ps-chat"><img src="img/2026-10-14-comfy-28njia8x/talk_iris_surprised.webp" alt="アイリス" loading="lazy"><div><div class="who">アイリス</div><div class="bub">ねえ、エプロンにもりんごの柄がある！ あたしたち、もはやりんごの妖精じゃない？</div></div></div><div class="ps-chat r"><img src="img/2026-10-14-comfy-28njia8x/talk_fiona_shy.webp" alt="フィオナ" loading="lazy"><div><div class="who">フィオナ</div><div class="bub">りんごの妖精なら、秘技・アップルパイ召喚も使えるでしょうか……</div></div></div><div class="ps-chat r"><img src="img/2026-10-14-comfy-28njia8x/talk_lupinus_exasperated.webp" alt="ルピナス" loading="lazy"><div><div class="who">ルピナス</div><div class="bub">フィオナまでボケないの。……でも、アップルパイは焼いてもいいかも</div></div></div><div class="ps-chat"><img src="img/2026-10-14-comfy-28njia8x/talk_iris_laugh.webp" alt="アイリス" loading="lazy"><div><div class="who">アイリス</div><div class="bub">やったー！ じゃあ帰ったら三人でパイ焼こ！ りんごはかご三つぶんあるし！</div></div></div><div class="ps-chat r"><img src="img/2026-10-14-comfy-28njia8x/talk_fiona_happy.webp" alt="フィオナ" loading="lazy"><div><div class="who">フィオナ</div><div class="bub">では私は、紅茶をいれますね。あなたの子のりんご狩りも、見てみたいです</div></div></div><div class="ps-chat r"><img src="img/2026-10-14-comfy-28njia8x/talk_lupinus_wink.webp" alt="ルピナス" loading="lazy"><div><div class="who">ルピナス</div><div class="bub">焼けたら引用で見せてね。かごいっぱいのりんご、待ってるから</div></div></div><h2 id="sec3">使い方（3ステップ）</h2><ol class="ps-steps"><li>ComfyUI で Anima のモデルを読み、基本の画像生成（テキストから画像）の画面にする</li><li>下の A（LoRA なし）か B（LoRA あり）のポジティブと、ネガティブをワンタップでコピーして貼る</li><li>「推奨値」の大きさ・steps・CFG にして生成する（できれば 1.5 倍の hires fix も）</li></ol><h2 id="sec4">プロンプト</h2><div class="ps-note" style="margin-bottom:12px"><b>変えるのは1行目の色の付いたところだけ</b>（先頭の <code>1girl, solo</code> などはそのまま）<ul><li>使うプロンプトは2通り＝<b>A. LoRA を持っていない人</b>／<b>B. 自分のキャラの LoRA を持っている人</b>。どちらも丸ごとコピーして貼るだけ</li><li>A は<b>そのまま</b>でも綺麗な女の子で出ます。自分のキャラにするなら1行目の髪の色・髪型・目の色を書き換えるだけ</li><li>B は1行目の <code>your_lora_trigger</code> を自分の LoRA のトリガー語に置きかえるだけ（LoRA の強さは下の表）</li><li>2行目から下（シーン）と、ネガティブプロンプトは変えずにそのまま</li><li>🚫 版権キャラの名前・版権キャラの LoRA を入れて使うのは固く禁止です（下の「配布ルール」）</li></ul></div><h3 style="margin:14px 0 8px">A. LoRA を持っていない人（そのままでもOK）</h3><div class="ps-box"><button class="ps-copy" type="button" data-target="ps-prompt">📋 ワンタップでコピー</button><p style="margin:0 0 8px;font-size:.82rem;color:var(--ps-a)">ポジティブプロンプト</p><pre>1girl, solo, <mark class="ps-in" data-key="キャラの行">long hair, wavy hair, silver hair, blue eyes</mark>
 masterpiece, best quality, score_7, safe, cowboy shot, from below, looking at viewer, smile, open mouth, blush, standing on ladder, ladder, leaning forward, holding apple, red apple, reaching towards viewer, outstretched arm, hand up, basket, wicker basket, apple tree, orchard, branch, leaf, outdoors, blue sky, sunny, day, afternoon, sunlight, dappled sunlight, light rays, warm colors, color contrast, depth of field, bokeh, dress, blue dress, wool, frilled collar, white collar, puffy long sleeves, apron, white apron, frilled apron, apple print, lace trim, hair ribbon, blue ribbon, pearl earrings, neck ribbon, bracelet, floating hair, wind, falling leaves, sparkle, autumn</pre><textarea class="ps-copyarea" id="ps-prompt" readonly aria-hidden="true" tabindex="-1">1girl, solo, long hair, wavy hair, silver hair, blue eyes
 masterpiece, best quality, score_7, safe, cowboy shot, from below, looking at viewer, smile, open mouth, blush, standing on ladder, ladder, leaning forward, holding apple, red apple, reaching towards viewer, outstretched arm, hand up, basket, wicker basket, apple tree, orchard, branch, leaf, outdoors, blue sky, sunny, day, afternoon, sunlight, dappled sunlight, light rays, warm colors, color contrast, depth of field, bokeh, dress, blue dress, wool, frilled collar, white collar, puffy long sleeves, apron, white apron, frilled apron, apple print, lace trim, hair ribbon, blue ribbon, pearl earrings, neck ribbon, bracelet, floating hair, wind, falling leaves, sparkle, autumn</textarea></div><h3 style="margin:18px 0 8px">B. 自分のキャラの LoRA を持っている人</h3><div class="ps-box"><button class="ps-copy" type="button" data-target="ps-prompt-lora">📋 ワンタップでコピー</button><p style="margin:0 0 8px;font-size:.82rem;color:var(--ps-a)">ポジティブプロンプト（LoRA 用）</p><pre>masterpiece, best quality, score_7, year 2025, highres, absurdres, <mark class="ps-in" data-key="キャラの行">your_lora_trigger</mark>, 1girl, solo,
 cowboy shot, from below, looking at viewer, smile, open mouth, blush, standing on ladder, ladder, leaning forward, holding apple, red apple, reaching towards viewer, outstretched arm, hand up, basket, wicker basket, apple tree, orchard, branch, leaf, outdoors, blue sky, sunny, day, afternoon, sunlight, dappled sunlight, light rays, warm colors, color contrast, depth of field, bokeh, dress, blue dress, wool, frilled collar, white collar, puffy long sleeves, apron, white apron, frilled apron, apple print, lace trim, hair ribbon, blue ribbon, pearl earrings, neck ribbon, bracelet, floating hair, wind, falling leaves, sparkle, autumn</pre><textarea class="ps-copyarea" id="ps-prompt-lora" readonly aria-hidden="true" tabindex="-1">masterpiece, best quality, score_7, year 2025, highres, absurdres, your_lora_trigger, 1girl, solo,
